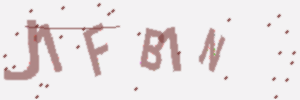
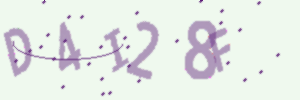
add fitur reload & update transisi

diff --git a/captcha-generator/main.py b/captcha-generator/main.py
@@ -4,89 +4,100 @@ import random
 import string
 from PIL import Image
 import os
+from datetime import datetime
 
 
 class CaptchaApp(ctk.CTk):
     def __init__(self):
         super().__init__()
 
-        self.title("Secure Access V 2.1")
-        self.geometry("500x550")
+        self.title("Secure Access V 2.4 - Auto-Expiry Edition")
+        self.geometry("500x650")
         self.resizable(False, False)
 
-        # Tema & Warna
+        self.attempts = 0
+        self.max_attempts = 3
+        self.lockout_time = 30
+        self.expiry_time = 30
+        self.current_expiry = self.expiry_time
+        self.is_locked = False
+        self.expiry_job = None
+
         ctk.set_appearance_mode("dark")
         self.color_success = "#33ff33"
+        self.color_error = "#ff3333"
 
-        # Inisialisasi Captcha
         self.generator = ImageCaptcha(width=300, height=100)
         self.current_captcha = ""
         self.captcha_path = "current_captcha.png"
 
-        # Container utama untuk menampung berbagai halaman (Frames)
         self.container = ctk.CTkFrame(self, fg_color="transparent")
         self.container.pack(fill="both", expand=True)
 
         self.show_captcha_page()
 
+    def fade_in(self, widget, alpha=0.0):
+        if alpha < 1.0:
+            alpha += 0.1
+            self.attributes("-alpha", alpha)
+            self.after(20, lambda: self.fade_in(widget, alpha))
+
+    def slide_up(self, widget, current_y=600, target_y=40):
+        if current_y > target_y:
+            current_y -= 40
+            widget.place(relx=0.5, y=current_y, anchor="n", relwidth=0.88, relheight=0.88)
+            self.after(10, lambda: self.slide_up(widget, current_y, target_y))
+
     def show_captcha_page(self):
-        # Bersihkan container jika ada isinya
-        for child in self.container.winfo_children():
-            child.destroy()
+        self.attributes("-alpha", 0.0)
+        for child in self.container.winfo_children(): child.destroy()
 
-        # --- FRAME CAPTCHA ---
         self.captcha_frame = ctk.CTkFrame(self.container, corner_radius=20)
-        self.captcha_frame.pack(pady=40, padx=30, fill="both", expand=True)
+        self.captcha_frame.place(relx=0.5, y=600, anchor="n", relwidth=0.88, relheight=0.88)
 
-        ctk.CTkLabel(self.captcha_frame, text="HUMAN VERIFICATION",
-                     font=("Bahnschrift", 22, "bold")).pack(pady=20)
+        ctk.CTkLabel(self.captcha_frame, text="HUMAN VERIFICATION", font=("Bahnschrift", 22, "bold")).pack(pady=15)
 
         self.captcha_display = ctk.CTkLabel(self.captcha_frame, text="")
         self.captcha_display.pack(pady=10)
 
-        ctk.CTkButton(self.captcha_frame, text="🔄 Reload", width=80,
-                      fg_color="transparent", border_width=1,
-                      command=self.generate_new_captcha).pack(pady=5)
+        self.expiry_bar = ctk.CTkProgressBar(self.captcha_frame, width=250, height=8)
+        self.expiry_bar.set(1.0)
+        self.expiry_bar.pack(pady=5)
 
-        self.entry_input = ctk.CTkEntry(self.captcha_frame, placeholder_text="Type code here...",
-                                        width=250, height=45, font=("Bahnschrift", 16), justify="center")
-        self.entry_input.pack(pady=20)
+        self.expiry_label = ctk.CTkLabel(self.captcha_frame, text=f"Expires in: {self.expiry_time}s",
+                                         font=("Bahnschrift", 12))
+        self.expiry_label.pack()
 
-        self.btn_verify = ctk.CTkButton(self.captcha_frame, text="ACCESS SYSTEM",
-                                        fg_color=self.color_success, text_color="black",
-                                        font=("Bahnschrift", 16, "bold"),
+        self.btn_reload = ctk.CTkButton(self.captcha_frame, text="🔄 Reload", width=80, fg_color="transparent",
+                                        border_width=1, command=self.generate_new_captcha)
+        self.btn_reload.pack(pady=10)
+
+        self.entry_input = ctk.CTkEntry(self.captcha_frame, placeholder_text="Type code here...", width=250, height=45,
+                                        font=("Bahnschrift", 16), justify="center")
+        self.entry_input.pack(pady=15)
+
+        self.btn_verify = ctk.CTkButton(self.captcha_frame, text="ACCESS SYSTEM", fg_color=self.color_success,
+                                        text_color="black", font=("Bahnschrift", 16, "bold"),
                                         command=self.verify_captcha)
         self.btn_verify.pack(pady=10)
 
         self.status_label = ctk.CTkLabel(self.captcha_frame, text="", font=("Bahnschrift", 14))
         self.status_label.pack(pady=5)
 
+        self.attempt_label = ctk.CTkLabel(self.captcha_frame, text=f"Attempts: 0/{self.max_attempts}",
+                                          font=("Bahnschrift", 12), text_color="gray")
+        self.attempt_label.pack(pady=5)
+
         self.generate_new_captcha()
-
-    def show_success_page(self):
-        # Hapus halaman captcha
-        for child in self.container.winfo_children():
-            child.destroy()
-
-        # --- FRAME SUKSES (HALAMAN SETELAH VERIFIKASI) ---
-        self.success_frame = ctk.CTkFrame(self.container, corner_radius=20, fg_color="#1a1a1a")
-        self.success_frame.pack(pady=40, padx=30, fill="both", expand=True)
-
-        # Animasi Checkmark Sederhana (Teks)
-        ctk.CTkLabel(self.success_frame, text="✓", font=("Arial", 80),
-                     text_color=self.color_success).pack(pady=(40, 10))
-
-        ctk.CTkLabel(self.success_frame, text="ACCESS GRANTED",
-                     font=("Bahnschrift", 28, "bold"), text_color=self.color_success).pack(pady=10)
-
-        ctk.CTkLabel(self.success_frame, text="Verification Successful.\nYou are now logged into the system.",
-                     font=("Bahnschrift", 16), text_color="gray", justify="center").pack(pady=20)
-
-        # Tombol kembali (untuk testing)
-        ctk.CTkButton(self.success_frame, text="LOGOUT", width=120,
-                      fg_color="#ff3333", command=self.show_captcha_page).pack(pady=20)
+        self.fade_in(self)
+        self.slide_up(self.captcha_frame)
 
     def generate_new_captcha(self):
+        if self.is_locked: return
+
+        if self.expiry_job:
+            self.after_cancel(self.expiry_job)
+
         chars = string.ascii_uppercase + string.digits
         self.current_captcha = ''.join(random.choice(chars) for _ in range(6))
         self.generator.write(self.current_captcha, self.captcha_path)
@@ -96,13 +107,86 @@ class CaptchaApp(ctk.CTk):
         self.captcha_display.configure(image=ctk_img)
         self.entry_input.delete(0, 'end')
 
+        self.current_expiry = self.expiry_time
+        self.status_label.configure(text="New code generated", text_color="gray")
+        self.update_expiry_timer()
+
+    def update_expiry_timer(self):
+        if not self.is_locked:
+            if self.current_expiry > 0:
+                self.current_expiry -= 1
+                self.expiry_bar.set(self.current_expiry / self.expiry_time)
+                self.expiry_label.configure(text=f"Expires in: {self.current_expiry}s")
+                self.expiry_job = self.after(1000, self.update_expiry_timer)
+            else:
+                self.status_label.configure(text="⌛ Captcha expired! Refreshing...", text_color="#ffcc00")
+                self.after(1000, self.generate_new_captcha)
+
     def verify_captcha(self):
+        if self.is_locked: return
+
+        if self.current_expiry <= 0:
+            self.status_label.configure(text="❌ Code expired! Please wait for refresh.", text_color=self.color_error)
+            return
+
         user_input = self.entry_input.get().strip().upper()
         if user_input == self.current_captcha:
-            self.show_success_page()
+            if self.expiry_job: self.after_cancel(self.expiry_job)  # Stop timer
+            self.attempts = 0
+            self.animate_transition(self.create_success_ui)
         else:
-            self.status_label.configure(text="❌ Invalid Code. Try again.", text_color="#ff3333")
+            self.attempts += 1
+            self.attempt_label.configure(text=f"Attempts: {self.attempts}/{self.max_attempts}")
+            if self.attempts >= self.max_attempts:
+                self.start_lockout()
+            else:
+                self.status_label.configure(text="❌ Invalid Code. Try again.", text_color=self.color_error)
+                self.generate_new_captcha()
+
+    def start_lockout(self):
+        self.is_locked = True
+        if self.expiry_job: self.after_cancel(self.expiry_job)
+        self.btn_verify.configure(state="disabled", fg_color="gray")
+        self.btn_reload.configure(state="disabled")
+        self.entry_input.configure(state="disabled")
+        self.run_countdown(self.lockout_time)
+
+    def run_countdown(self, seconds):
+        if seconds > 0:
+            self.status_label.configure(text=f"🛑 SYSTEM LOCKED! Wait {seconds}s", text_color=self.color_error)
+            self.after(1000, lambda: self.run_countdown(seconds - 1))
+        else:
+            self.is_locked = False;
+            self.attempts = 0
+            self.btn_verify.configure(state="normal", fg_color=self.color_success)
+            self.btn_reload.configure(state="normal");
+            self.entry_input.configure(state="normal")
+            self.attempt_label.configure(text=f"Attempts: 0/{self.max_attempts}")
             self.generate_new_captcha()
+
+    def animate_transition(self, next_func):
+        alpha = self.attributes("-alpha")
+        if alpha > 0.0:
+            alpha -= 0.1
+            self.attributes("-alpha", alpha)
+            self.after(20, lambda: self.animate_transition(next_func))
+        else:
+            next_func()
+            self.fade_in(self)
+
+    def create_success_ui(self):
+        for child in self.container.winfo_children(): child.destroy()
+        self.success_frame = ctk.CTkFrame(self.container, corner_radius=20, fg_color="#1a1a1a")
+        self.success_frame.place(relx=0.5, y=600, anchor="n", relwidth=0.88, relheight=0.88)
+        ctk.CTkLabel(self.success_frame, text="✓", font=("Arial", 80), text_color=self.color_success).pack(
+            pady=(40, 10))
+        ctk.CTkLabel(self.success_frame, text="ACCESS GRANTED", font=("Bahnschrift", 28, "bold"),
+                     text_color=self.color_success).pack(pady=10)
+        ctk.CTkLabel(self.success_frame, text="Welcome back, Administrator.", font=("Bahnschrift", 16),
+                     text_color="gray").pack(pady=20)
+        ctk.CTkButton(self.success_frame, text="LOGOUT", width=120, fg_color=self.color_error,
+                      command=self.show_captcha_page).pack(pady=20)
+        self.slide_up(self.success_frame)
 
 
 if __name__ == "__main__":